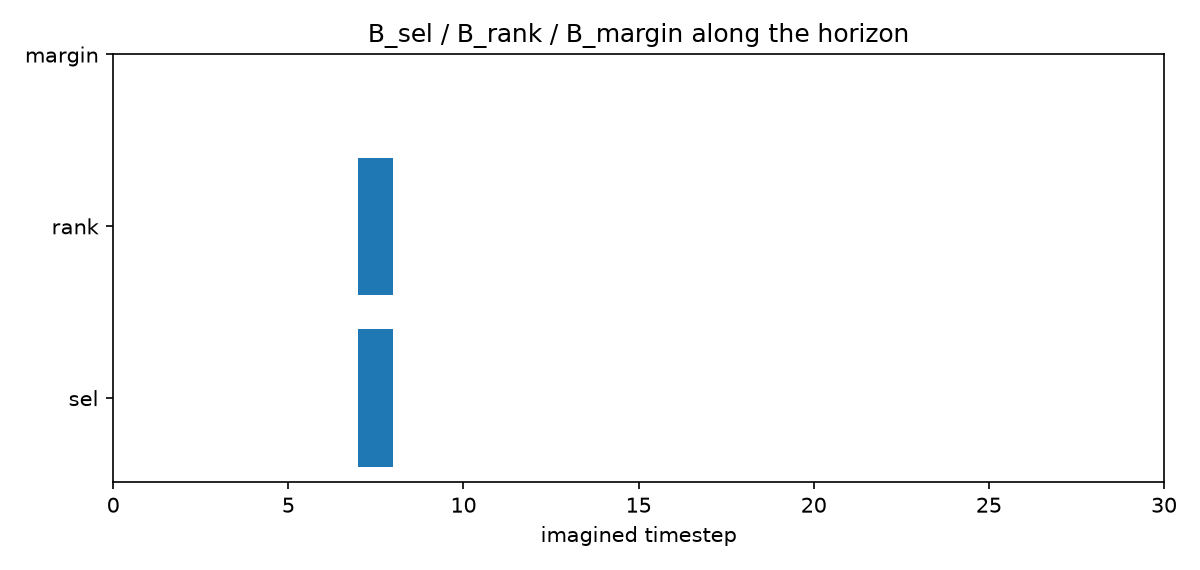
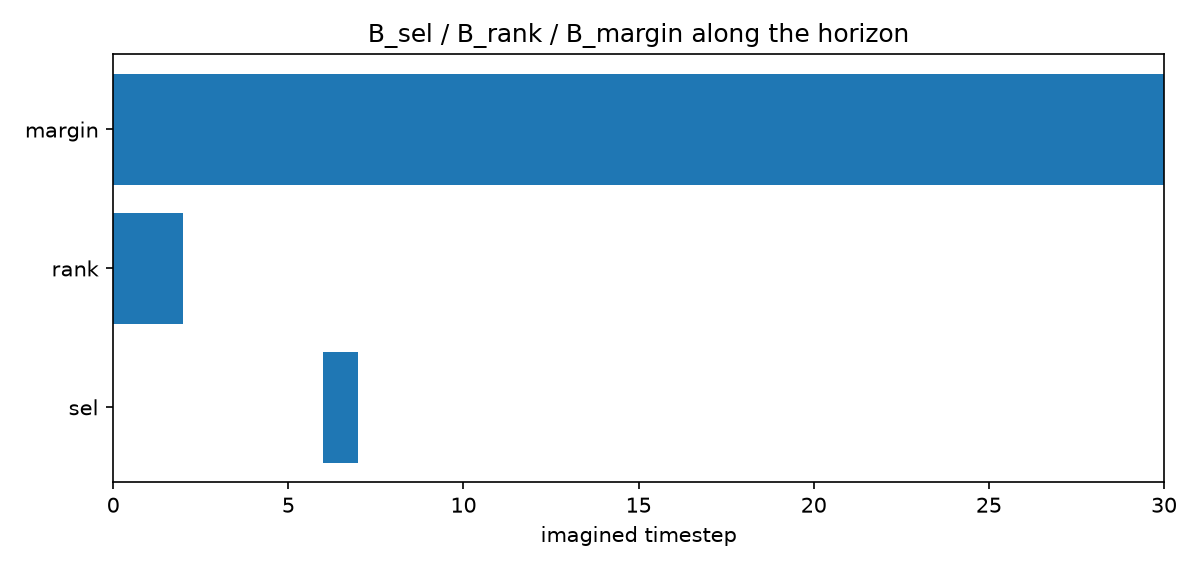
update results

diff --git a/results.md b/results.md
@@ -410,6 +410,44 @@ at a moderate, non-catastrophic `D_margin` cost — worth adopting per-task if
 `H_margin` explanations are needed for a write-up, rather than the shared ×1
 weights that currently make it degenerate to near-full-horizon coverage.
 
+### Case study with the tuned multiplier (population-derived, not re-tuned per point)
+
+Applying the multiplier found above (Crafter/Walker Walk ×6, Pong ×9 — picked
+from the 35-point population sweep, not fit to any single point) to each
+task's reference decision point (`experiments/cross_objective_agreement.py
+--margin-multiplier`), run solo/sequentially (not concurrently, since we're
+now operating right at an individual point's own compactness/faithfulness
+threshold, where the earlier-documented concurrency numerical drift is more
+likely to flip a discrete outcome than just nudge a continuous number):
+
+| Task | `B_sel` | `B_rank` | `B_margin` @ tuned multiplier |
+|---|---|---|---|
+| Crafter (×6) | `[(24,25),(26,29)]` | `[(14,14)]` | still 30/30 (full) |
+| Atari Pong (×9) | `[(6,6)]` | `[(0,1)]` | still 30/30 (full) |
+| DMC Walker Walk (×6) | `[]` | `[(28,29)]` | 0/30 (empty) |
+
+Images: `images/{crafter,atari_pong,dmc_walker_walk}/cross_objective_agreement_tuned_margin.png`.
+
+**Honest result, not cherry-picked: the population-tuned multiplier does not
+transfer cleanly to these specific reference points.** Crafter and Pong are
+still at full coverage at their tuned multiplier (their own individual
+threshold, checked directly, sits higher — between ×6–7 for Crafter, ×12–15
+for Pong); Walker Walk has already flipped to empty (its own threshold sits
+below ×6). This is not a failure of the method so much as a property of
+*which* points these reference points are: they were selected as the most
+*decisive* points (largest candidate-score separation, from the multi-point
+sampling sweep), and a per-point check found each individual point's
+coverage-vs-multiplier curve is a **sharp step, not a gradual one** — the
+smooth-looking population-average curve above is the average of many
+individually-sharp steps that happen to sit at different multiplier
+thresholds, not evidence that any single point degrades gradually. A
+population-tuned multiplier is the right generalizable choice (matches how
+these configs should actually be set), but it will still land some
+individual points, especially atypical high-separation ones like these
+reference points, right on the wrong side of their own threshold — that's
+expected, not a bug, and not a reason to hunt for a point-specific multiplier
+(which would just overfit to that one point with no generalization value).
+
 ### Open items (updated)
 
 - ~~Decision-point sampling isn't reproducible run-to-run~~ — **resolved**.